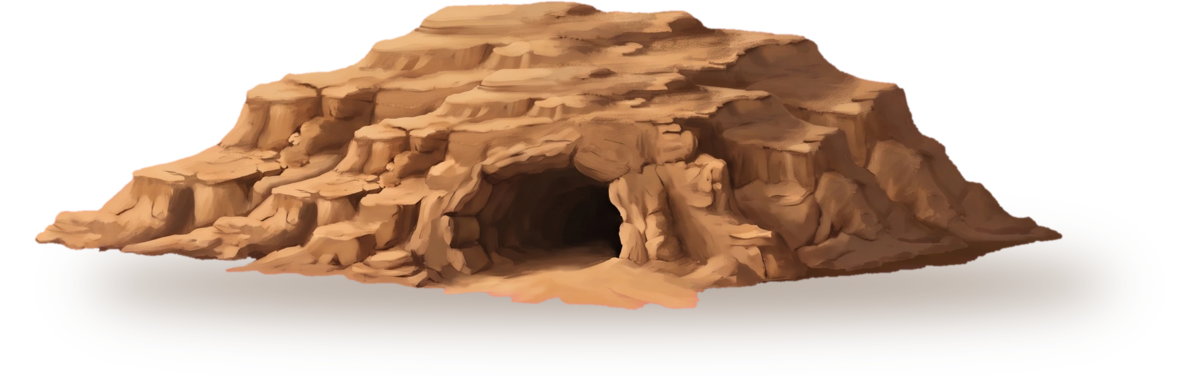
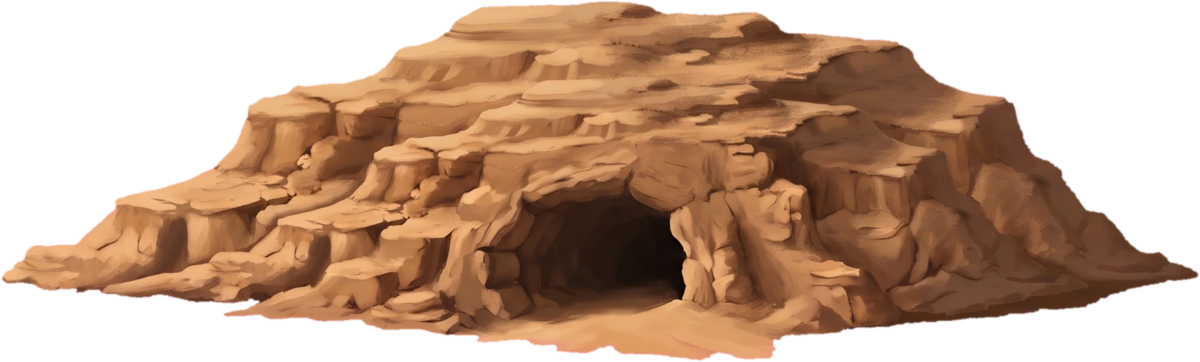
feat: the cave hill casts the camel's shadow under an afternoon sun
Claude-Session: https://claude.ai/code/session_01NQk9Q1WZoZfDzoRioyXby1

diff --git a/src/data/journeys.ts b/src/data/journeys.ts
@@ -162,7 +162,7 @@ const authoredJourneys: AuthoredJourney[] = [
     difficulty: "starter",
     journeyLength: "short",
     entryLock: { count: 4 },
-    background: { time: "morning" },
+    background: { time: "afternoon" },
     // The cave has no board; the cavern's is junior-sized, the tier + 1 step.
     levels: [{ exterior: "caveMouth", board: false }, { exterior: "cavern" }],
     levelSettings: {
@@ -261,7 +261,7 @@ const authoredJourneys: AuthoredJourney[] = [
     difficulty: "junior",
     journeyLength: "medium",
     entryLock: { count: 4 },
-    background: { time: "morning" },
+    background: { time: "afternoon" },
     levelSettings: {
       startFloorCount: 3,
       startNumberRange: [1, 10],
@@ -363,7 +363,7 @@ const authoredJourneys: AuthoredJourney[] = [
     difficulty: "expert",
     journeyLength: "short",
     entryLock: { count: 4 },
-    background: { time: "morning" },
+    background: { time: "afternoon" },
     levelSettings: {
       startFloorCount: 4,
       startNumberRange: [1, 10],
@@ -378,7 +378,7 @@ const authoredJourneys: AuthoredJourney[] = [
     difficulty: "expert",
     journeyLength: "short",
     entryLock: { count: 3 },
-    background: { time: "morning" },
+    background: { time: "afternoon" },
     levelSettings: {
       startFloorCount: 4,
       startNumberRange: [2, 12],
@@ -475,7 +475,7 @@ const authoredJourneys: AuthoredJourney[] = [
     difficulty: "master",
     journeyLength: "medium",
     entryLock: { count: 4 },
-    background: { time: "morning" },
+    background: { time: "afternoon" },
     levelSettings: {
       startFloorCount: 4,
       startNumberRange: [1, 10],
@@ -490,7 +490,7 @@ const authoredJourneys: AuthoredJourney[] = [
     difficulty: "master",
     journeyLength: "medium",
     entryLock: { count: 3 },
-    background: { time: "morning" },
+    background: { time: "afternoon" },
     levelSettings: {
       startFloorCount: 4,
       startNumberRange: [1, 12],
@@ -598,7 +598,7 @@ const authoredJourneys: AuthoredJourney[] = [
     difficulty: "wizard",
     journeyLength: "medium",
     entryLock: { count: 4 },
-    background: { time: "morning" },
+    background: { time: "afternoon" },
     levelSettings: {
       startFloorCount: 5,
       startNumberRange: [1, 15],
@@ -613,7 +613,7 @@ const authoredJourneys: AuthoredJourney[] = [
     difficulty: "wizard",
     journeyLength: "medium",
     entryLock: { count: 3 },
-    background: { time: "morning" },
+    background: { time: "afternoon" },
     levelSettings: {
       startFloorCount: 5,
       startNumberRange: [2, 18],
@@ -628,7 +628,7 @@ const authoredJourneys: AuthoredJourney[] = [
     difficulty: "wizard",
     journeyLength: "medium",
     entryLock: { count: 2 },
-    background: { time: "morning" },
+    background: { time: "afternoon" },
     levelSettings: {
       startFloorCount: 5,
       startNumberRange: [3, 20],

diff --git a/src/ui/atoms/CaveBackdrop.tsx b/src/ui/atoms/CaveBackdrop.tsx
@@ -33,5 +33,15 @@ export const CaveBackdrop: FC<PropsWithChildren> = ({ children }) => {
   )
 }
 
-/** The rocky hill with the cave in it, standing on the desert where a pyramid would. */
-export const CaveMouth: FC = () => <img src={caveMouthUrl} alt="" data-cave-mouth="" className="w-[min(80vw,32rem)]" />
+/** The rocky hill with the cave in it, standing on the desert where a pyramid would. Its shadow is the
+ * camel's: the same silhouette flipped down onto the sand, short under an afternoon sun. */
+export const CaveMouth: FC = () => (
+  <div className="relative w-[min(80vw,32rem)]" data-cave-mouth="">
+    <img
+      src={caveMouthUrl}
+      alt=""
+      className="absolute inset-0 origin-bottom -translate-y-1/3 -scale-y-45 opacity-20 brightness-0"
+    />
+    <img src={caveMouthUrl} alt="" className="relative block" />
+  </div>
+)

diff --git a/src/ui/atoms/CaveBackdrop.stories.tsx b/src/ui/atoms/CaveBackdrop.stories.tsx
@@ -14,7 +14,7 @@ type Story = StoryObj<typeof meta>
 export const Mouth: Story = {
   render: () => (
     <div className="h-screen">
-      <DesertBackdrop levelNr={1} start="morning" timeStepSize={1}>
+      <DesertBackdrop levelNr={1} start="afternoon" timeStepSize={1}>
         <div className="flex flex-1 items-center justify-center">
           <CaveMouth />
         </div>

diff --git a/docs/instructions/repaint-queue.md b/docs/instructions/repaint-queue.md
@@ -324,7 +324,7 @@ NO OUTLINES — no black contour, no ink, no cel shading. Landscape, the hill fi
 little magenta margin. No text, no watermark, no frame.
 ```
 
-**Import:** keep the render as `art/masters/exteriors/cave-mouth.webp`, then `art/cutout-exterior.sh art/masters/exteriors/cave-mouth.webp src/assets/exteriors/cave-mouth.png 1180` (1180 cuts off the band of sand the render ends in; the shadow is drawn by the script)
+**Import:** keep the render as `art/masters/exteriors/cave-mouth.webp`, then `art/cutout-exterior.sh art/masters/exteriors/cave-mouth.webp src/assets/exteriors/cave-mouth.png 1180` (1180 cuts off the band of sand the render ends in; the shadow is cast in CSS)
 
 ### `exteriors/cavern` — a sunlit cavern with a pyramid standing in it
 
